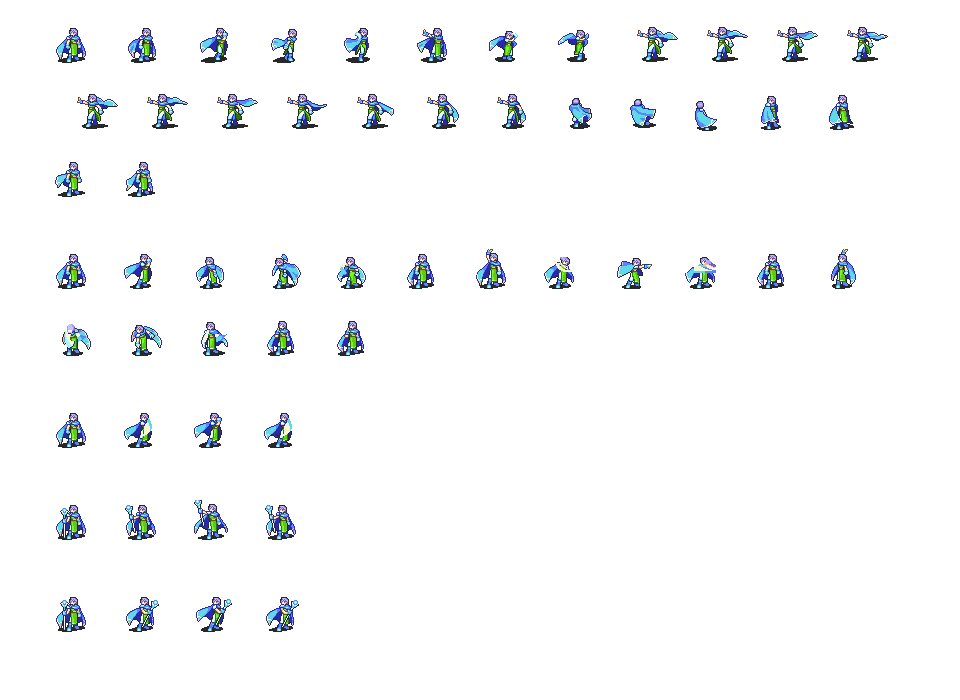
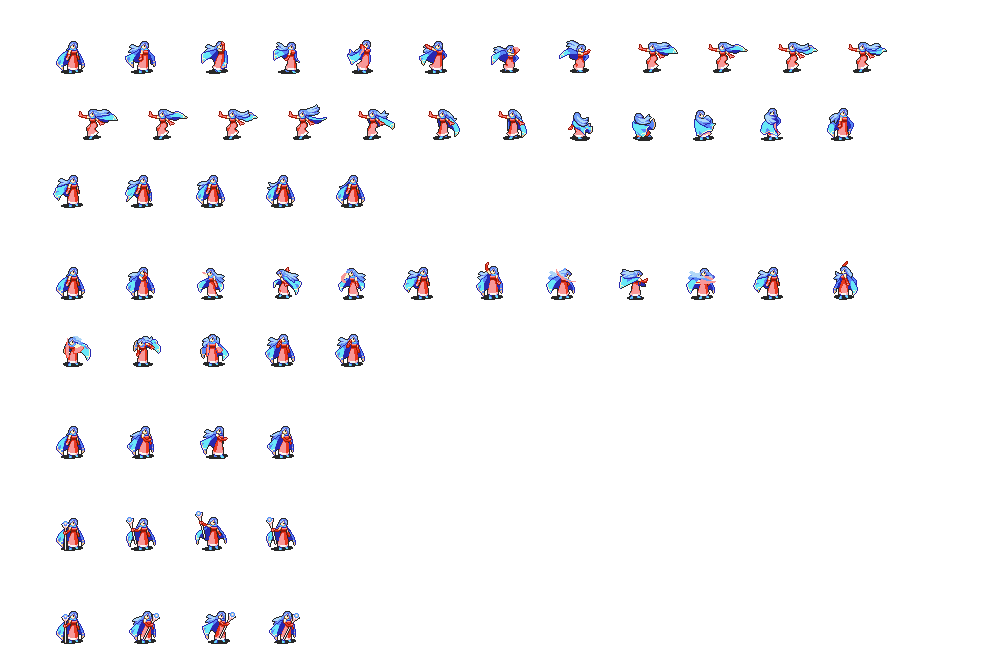
#629: extract the FEMALE sage -- the block the map sprite actually uses
Found in play: MapSprites/Sage.png is the female sage, and the extractor was
pointed at the male block. The sheet carries the class three times over -- male at
the top (palettes Erk / Pent / Aion), then two female blocks (Sonia / Limstella,
then Nino) -- which is not derivable from the sheet, so which block a unit needs is
a content call and it is made in the manifest.

One line of region. The female attack is three frames longer than the male's:
58 cards in 5 animations rather than 55, attack 29 frames rather than 26.

test_card_sheet stays green untouched, which is the point of its shipped-sheet
cases being PROPERTIES rather than content pins -- the counts changed and nothing
had to be edited.

diff --git a/Art/Units/ZoomAnimations/README.md b/Art/Units/ZoomAnimations/README.md
@@ -31,6 +31,12 @@ than the credit living in a filename:
 So each unit has a download and a working copy of the same pixels. That duplication is deliberate —
 the download is the archive, the short name is the one anything reads.
 
+**A sheet may carry the class more than once.** The Sage sheet has it three times: a **male** block at
+the top (its palette strips are named Erk / Pent / Aion) and two **female** blocks below (Sonia /
+Limstella, then Nino). `MapSprites/Sage.png` is the female, so the generator's `region` picks a
+female block. Which one a unit needs is a **content call** — it is not derivable from the sheet — and
+it is made in the manifest, one line.
+
 ## The three GIFs needed PNG copies, and that was not cosmetic
 
 **Godot cannot load GIF at all** — `Image.load()` returns error 15, `File unrecognized` — so the
